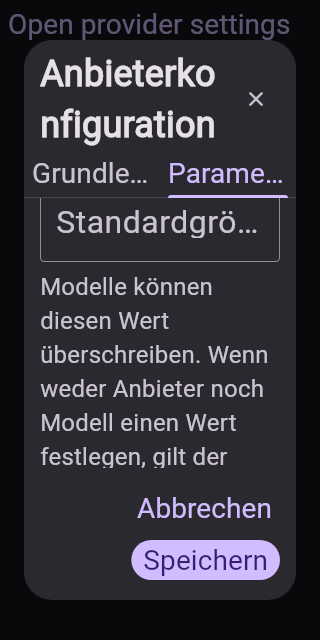
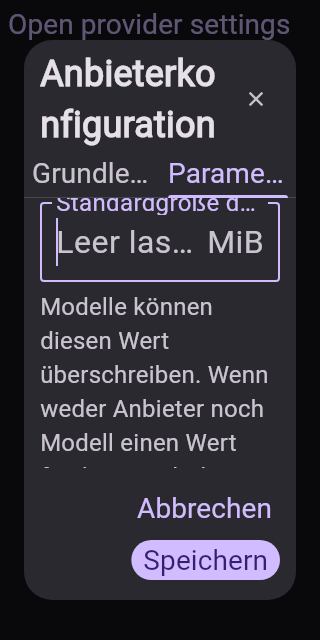
fix(settings): keep OCR budget unit visible

Changed region(s): [[0.125, 0.3125, 0.8438, 0.75], [0.8438, 0.3125, 0.875, 0.4375]]

diff --git a/lib/pages/provider_settings_panel_tab_basic.dart b/lib/pages/provider_settings_panel_tab_basic.dart
@@ -166,11 +166,25 @@ extension _ProviderSettingsPanelTabBasicExt on _ProviderSettingsPanelState {
                   label: _buildProviderInputLabel(
                     AppLocalizations.of(context)!.providerRequestJsonDefault,
                   ),
-                  hint: ExcludeSemantics(
-                    child: ConstrainedInputHint(
-                      AppLocalizations.of(context)!.providerUseAppDefault,
-                      statesController: hintStates,
-                    ),
+                  hint: LayoutBuilder(
+                    builder: (context, constraints) {
+                      final maxWidth = constraints.maxWidth;
+                      final hintWidth = maxWidth.isFinite
+                          ? (maxWidth - 40).clamp(0.0, maxWidth).toDouble()
+                          : maxWidth;
+                      return ClipRect(
+                        child: SizedBox(
+                          width: hintWidth,
+                          child: ExcludeSemantics(
+                            child: ConstrainedInputHint(
+                              AppLocalizations.of(context)!
+                                  .providerUseAppDefault,
+                              statesController: hintStates,
+                            ),
+                          ),
+                        ),
+                      );
+                    },
                   ),
                   suffixText: 'MiB',
                   border: OutlineInputBorder(),

diff --git a/tests/qa/round13_native_input_hints_capture_test.dart b/tests/qa/round13_native_input_hints_capture_test.dart
@@ -127,10 +127,30 @@ void main() {
       final field = find.byKey(
         const Key('ocr_provider_request_size_budget_mib'),
       );
+      await tester.tap(field);
+      await tester.pumpAndSettle();
       final input = tester.widget<TextField>(field);
       final hint = tester.widget<ConstrainedInputHint>(hintFinder);
       expect(input.statesController, hint.statesController);
       expect(input.decoration!.suffixText, 'MiB');
+      final suffixFinder = find.text('MiB');
+      expect(suffixFinder, findsOneWidget);
+      final fieldRect = tester.getRect(field);
+      final suffixRect = tester.getRect(suffixFinder);
+      final hintRect = tester.getRect(hintFinder);
+      expect(suffixRect.left, greaterThan(fieldRect.left));
+      expect(suffixRect.right, lessThanOrEqualTo(fieldRect.right));
+      final suffixOpacity = tester.widget<AnimatedOpacity>(
+        find
+            .ancestor(of: suffixFinder, matching: find.byType(AnimatedOpacity))
+            .first,
+      );
+      expect(suffixOpacity.opacity, 1);
+      expect(
+        hintRect.right,
+        lessThanOrEqualTo(suffixRect.left),
+        reason: 'The measured hint must leave room for the MiB suffix.',
+      );
       expect(
         input.keyboardType,
         const TextInputType.numberWithOptions(decimal: true),

diff --git a/docs/ui-constrained-text-qa/round13-form-hints-b/README.md b/docs/ui-constrained-text-qa/round13-form-hints-b/README.md
@@ -1,10 +1,10 @@
 # Round 13 native form hints
 
-The capture test renders the production provider settings dialog with empty in-memory fixture values. It captures a fitting English view at 1200 × 800 logical pixels with 1× text scale and a clipped French view at 320 × 640 logical pixels with 2× text scale. Both use the light Material 3 theme and device-pixel ratio 1. No field is focused and the software keyboard is closed. No account data or provider request is used. The test checks that all three basic provider hints use measured hint widgets linked to their native editable fields.
+The capture test renders the production provider settings dialog with empty in-memory fixture values. It captures a fitting English view at 1200 × 800 logical pixels with 1× text scale and a clipped French view at 320 × 640 logical pixels with 2× text scale. Both use the light Material 3 theme and device-pixel ratio 1. No account data or provider request is used. The test checks that all three basic provider hints use measured hint widgets linked to their native editable fields.
 
 The French API endpoint hint is measured against its rendered one-line field slot to verify that it overflows at the narrow expanded-scale size. The fitting capture verifies that the basic provider fields remain visible in the wide normal-scale layout.
 
-The OCR provider parameter tab is captured in German at 320 × 640 logical pixels and 2× text scale in both light and dark Material 3 themes. The request-size input is scrolled into view; the regression verifies its measured hint remains attached to the native numeric field with the `MiB` suffix. The existing file rename dialog also has a focused regression checking that its new-name hint is measured while the text field still accepts edits and preserves the caret.
+The OCR provider parameter tab is captured in German at 320 × 640 logical pixels and 2× text scale in both light and dark Material 3 themes. The request-size input is scrolled into view and focused, which makes Flutter's native `MiB` suffix visible while the empty field hint remains present. The regression verifies the suffix is rendered inside the field and the measured hint leaves it room. The software keyboard is closed in these widget captures. The existing file rename dialog also has a focused regression checking that its new-name hint is measured while the text field still accepts edits and preserves the caret.
 
 Generate the screenshots with:
 
